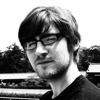
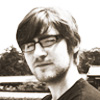
corrected agenda, post processed keynote speaker fotos

diff --git a/agenda.md b/agenda.md
@@ -94,9 +94,9 @@ You can find it on our [Visitor Info Map](http://goo.gl/maps/gwcZ). The closest 
       <td colspan="2">Welcome</td>
     </tr>
     <tr>
-      <td>09:30</td>
+      <td>09:45</td>
       <td>Keynote</td>
-      <td>Paul Campell</td>
+      <td>Yukihiro Matsumoto</td>
     </tr>
     <tr class="pause">
       <td>10:45</td>
@@ -186,7 +186,7 @@ Getting to the location might be a bit hard. We try to make it easy for you, by 
     <tr>
       <td>10:00</td>
       <td>Keynote</td>
-      <td>Yukihiro Matsumoto</td>
+      <td>Paul Campell</td>
     </tr>
     <tr class="pause">
       <td>11:00</td>
